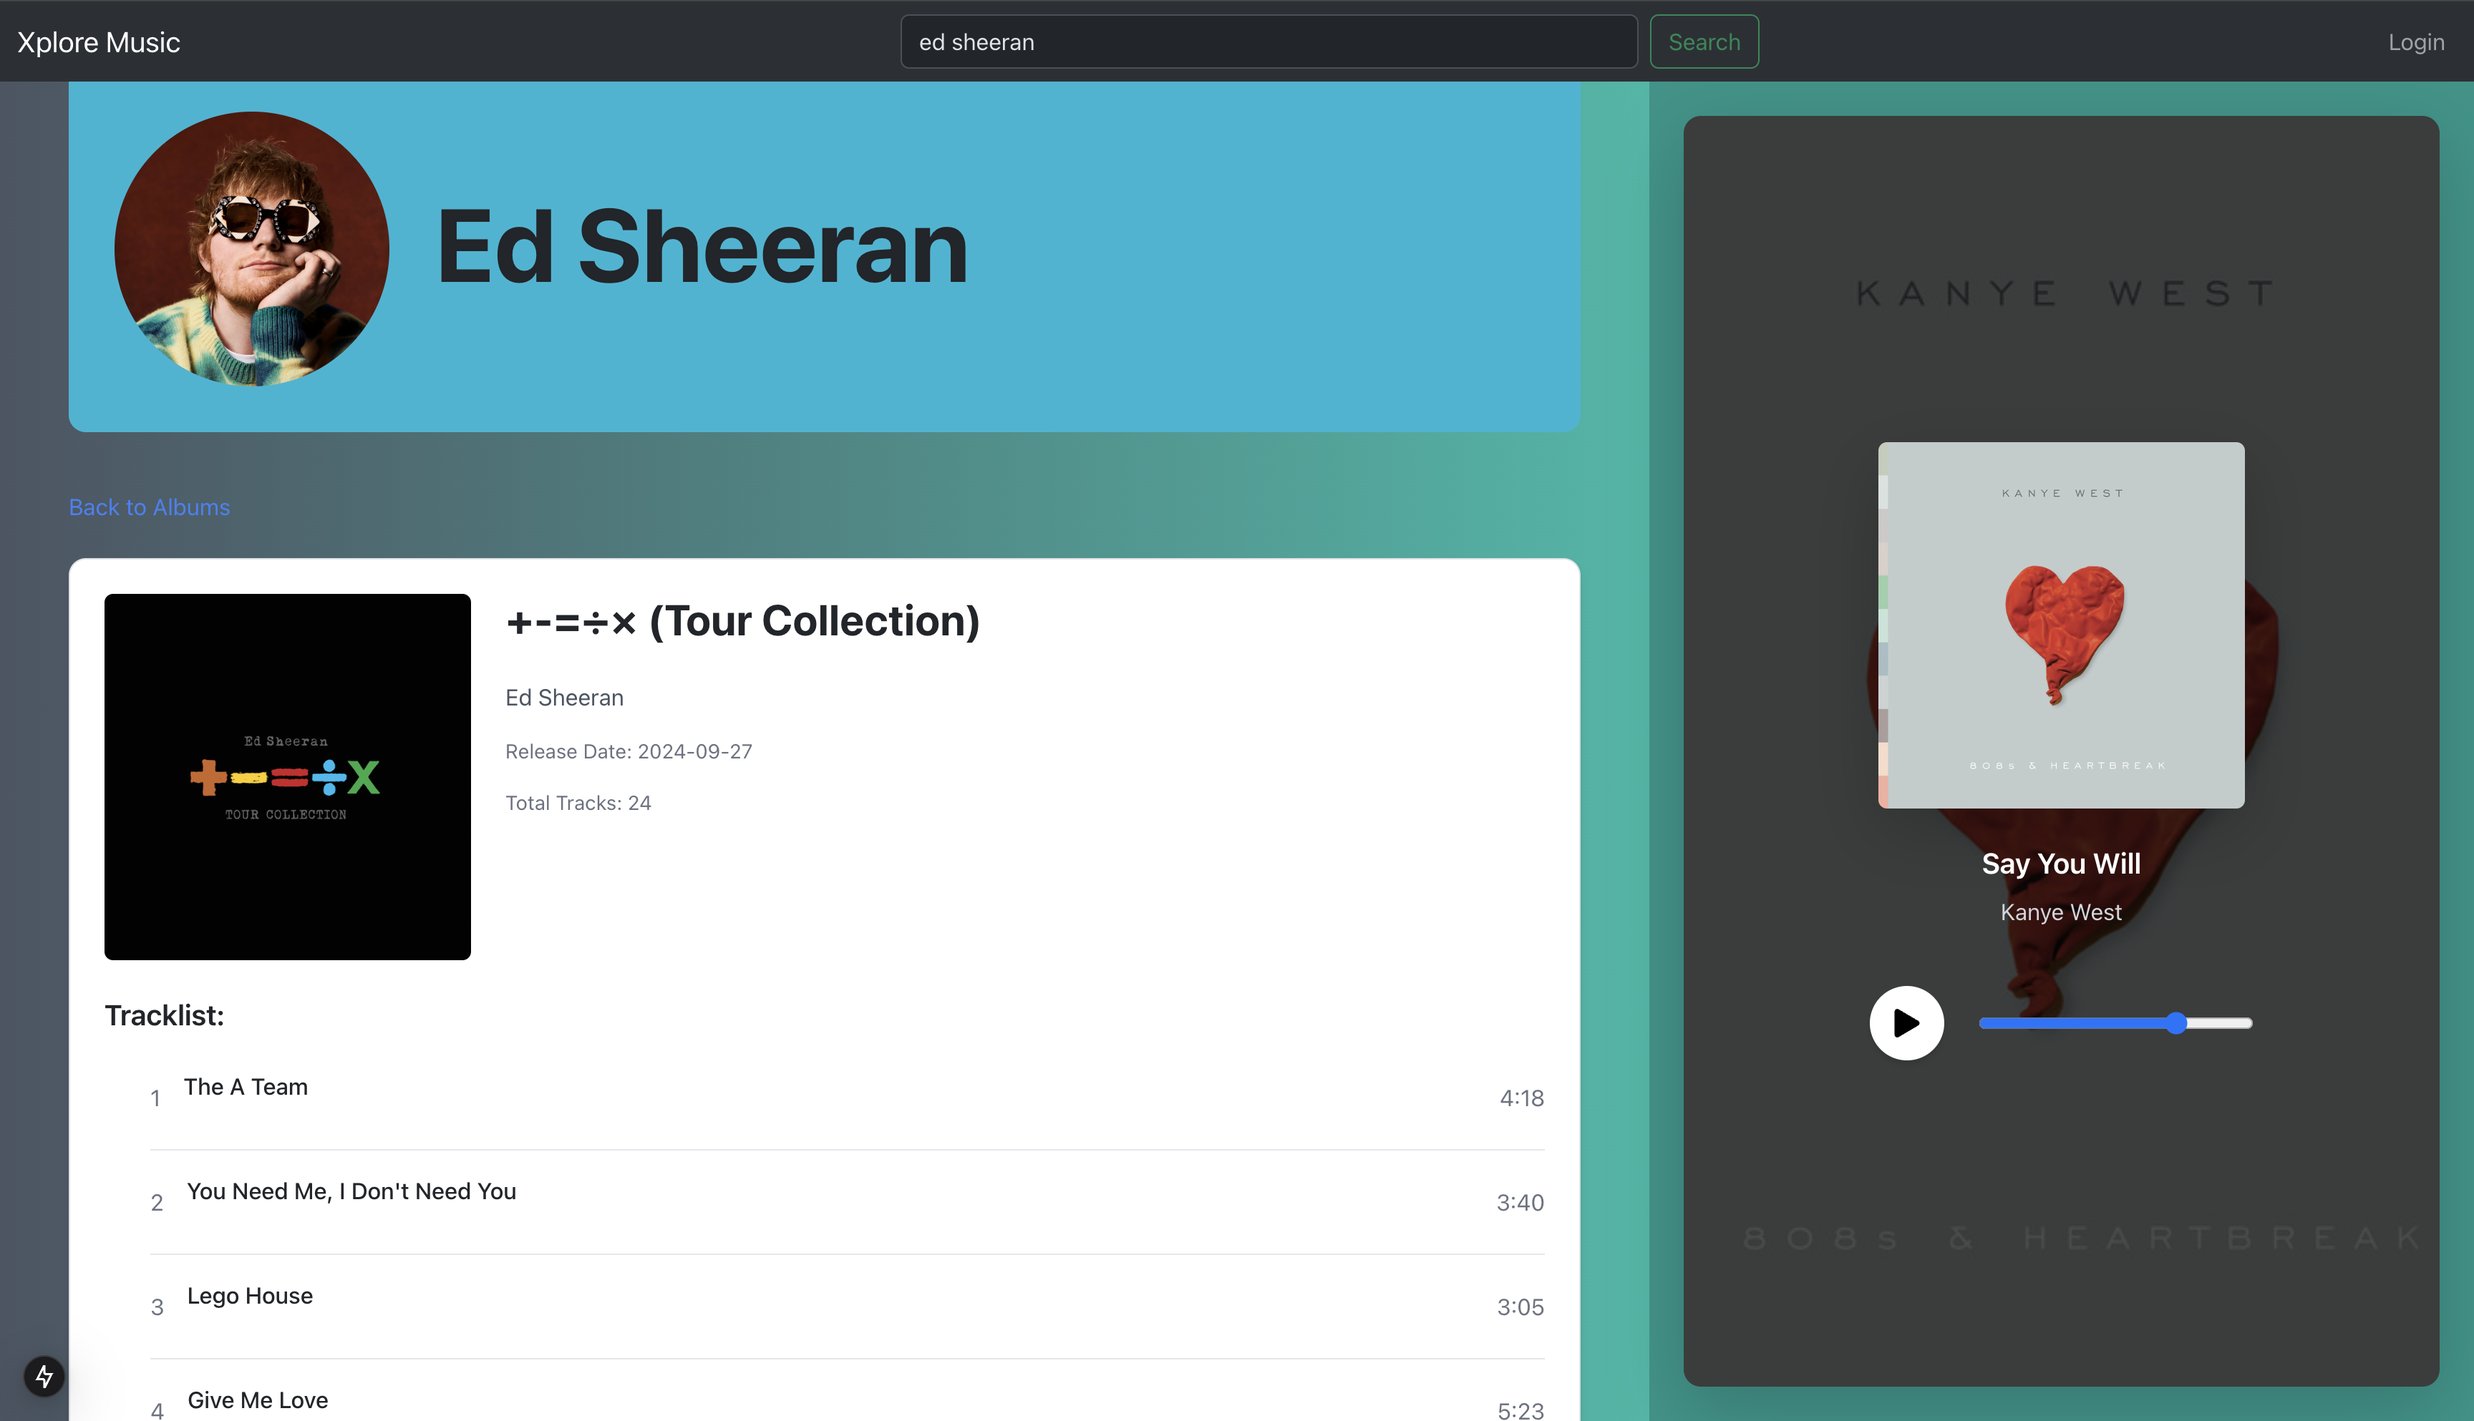
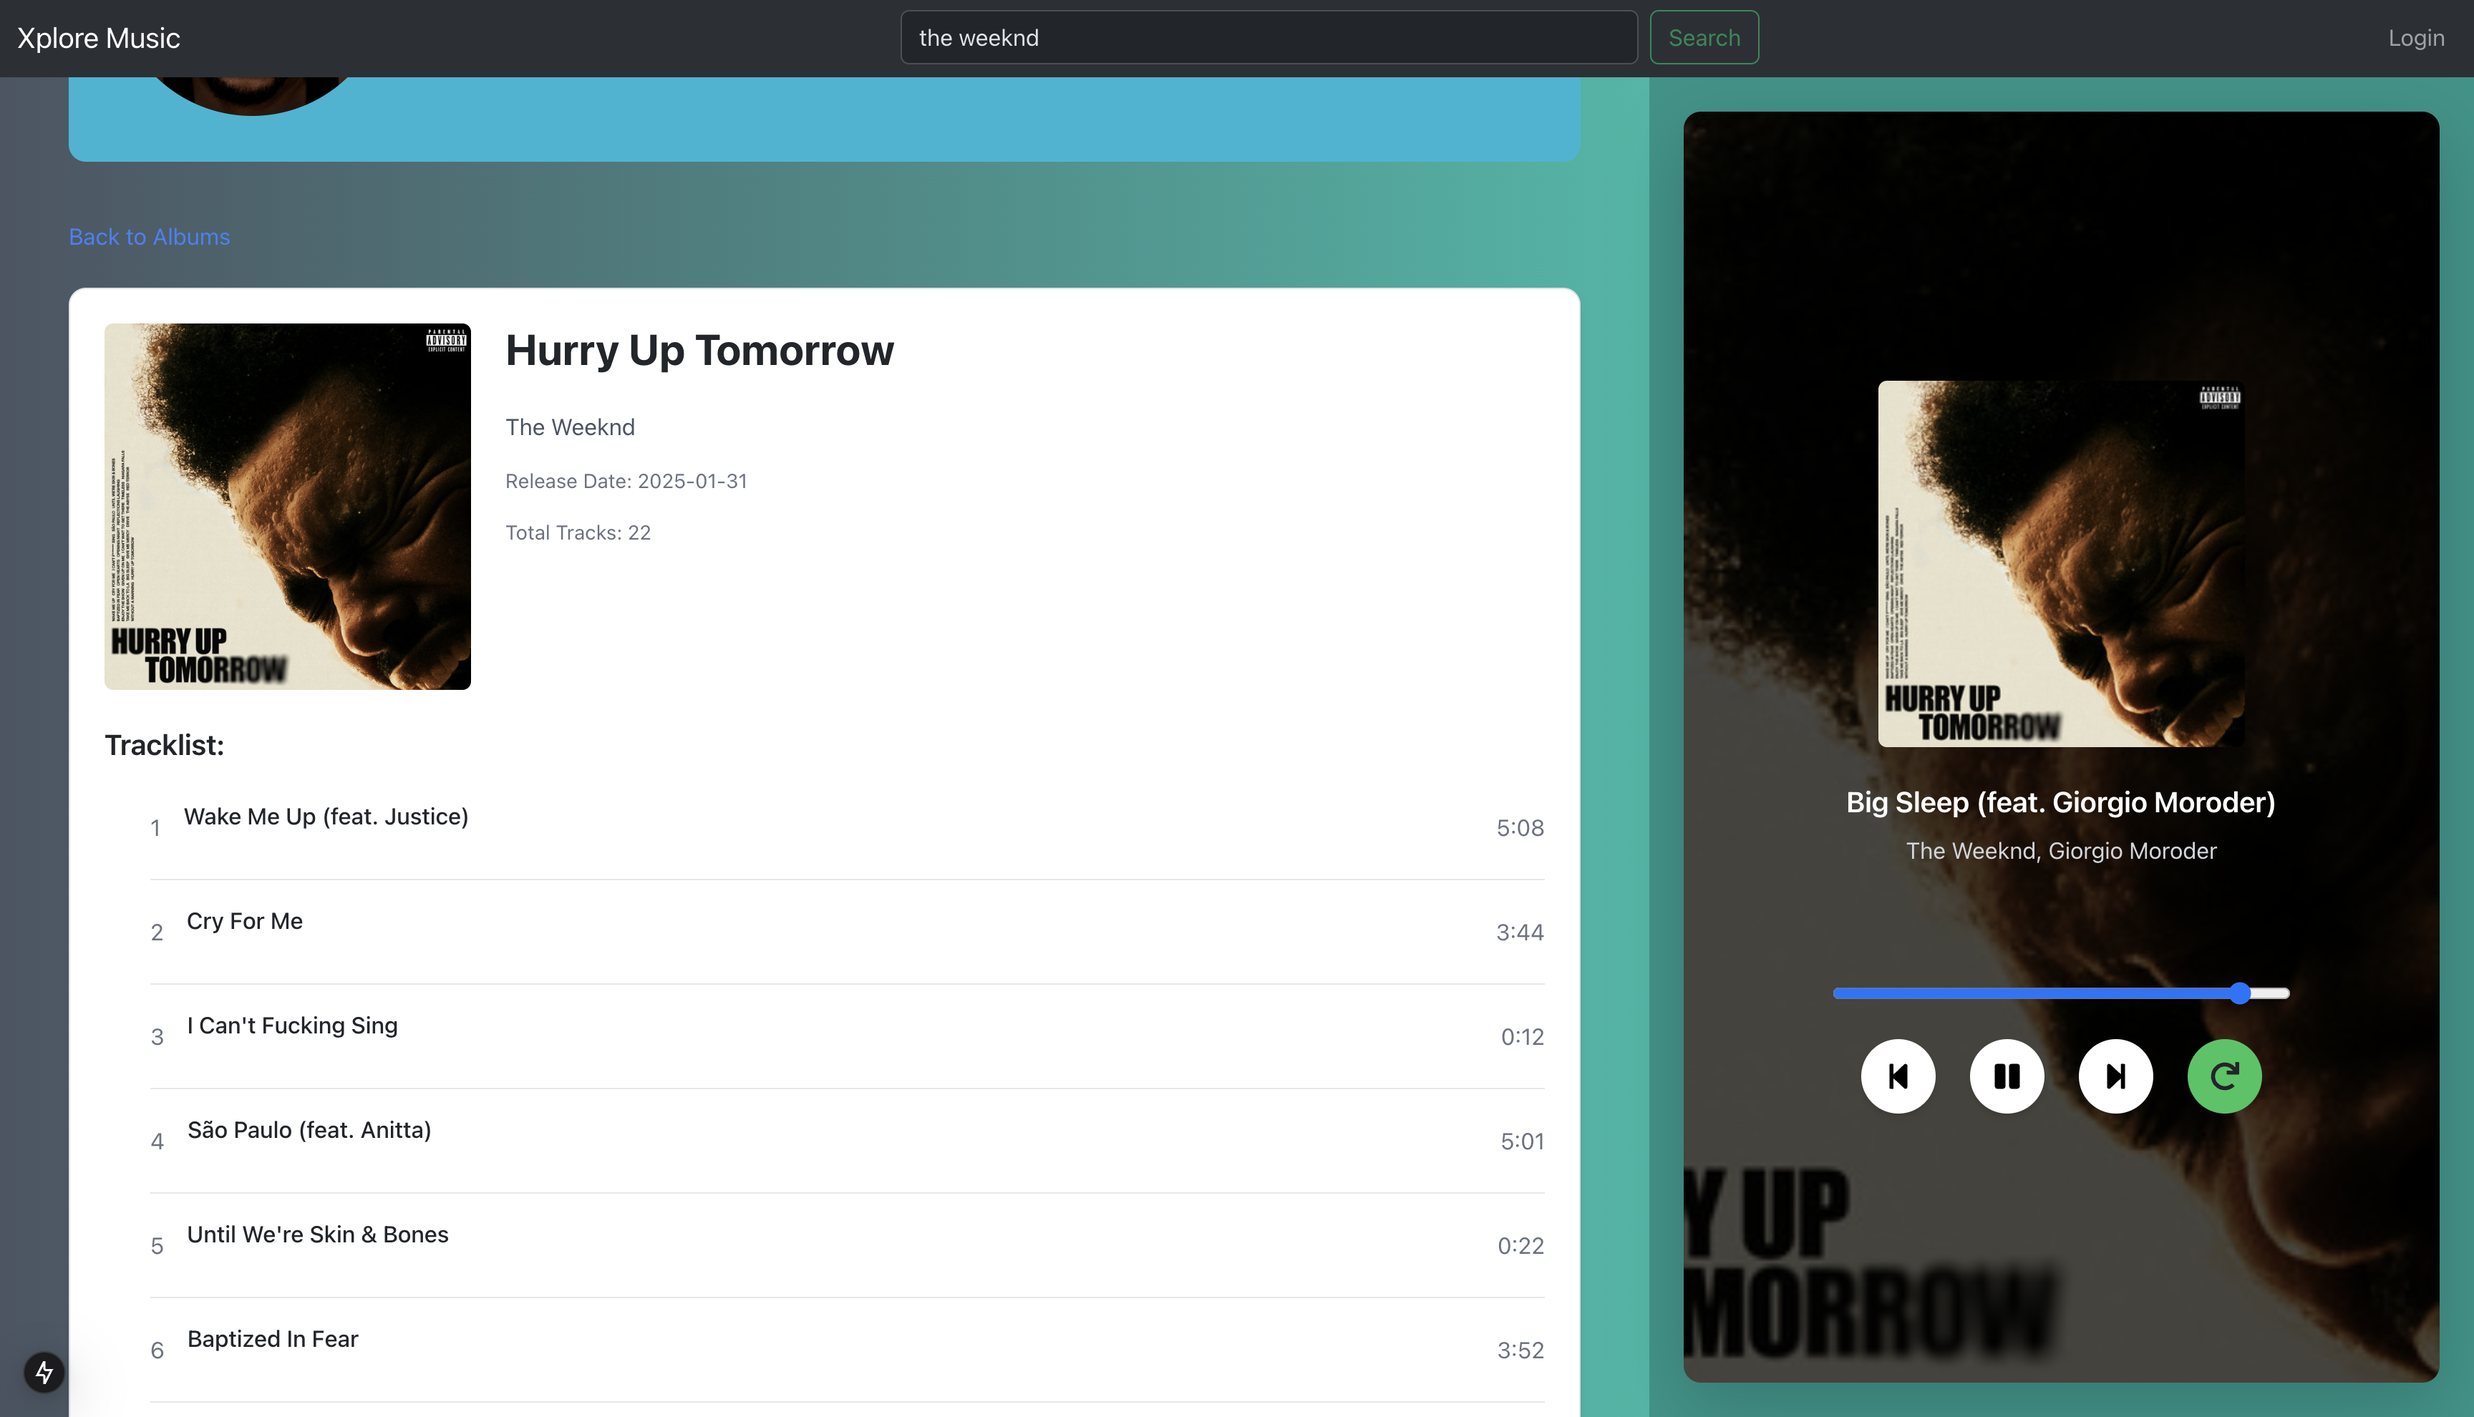
changes to music player ui, adding functionality to skip or go back to previous songs from an album.

diff --git a/client/src/app/musicPlayer.jsx b/client/src/app/musicPlayer.jsx
@@ -1,24 +1,26 @@
 'use client';
 import { useEffect, useState, useRef } from 'react';
 import axios from 'axios';
-import { FaPlay, FaPause } from 'react-icons/fa';
+import { FaPlay, FaPause, FaRedo, FaStepBackward, FaStepForward } from 'react-icons/fa';
 
-export default function MusicPlayer({ currentTrack, currentAlbumImg }) {
+export default function MusicPlayer({ currentTrack, currentAlbumImg, trackList, onTrackChange }) {
   const [videoId, setVideoId] = useState(null);
   const [audioUrl, setAudioUrl] = useState(null);
   const [isPlaying, setIsPlaying] = useState(false);
   const [progress, setProgress] = useState(0);
+  const [repeat, setRepeat] = useState(false);
   const audioRef = useRef(null);
+
+  
 
   const containerStyle = {
     backgroundImage: `url(${currentAlbumImg})`,
     backgroundSize: 'cover',
     backgroundPosition: 'center',
     backgroundBlendMode: 'darken',
-    backgroundColor: 'rgba(0,0,0,0.7)', // Dark overlay
+    backgroundColor: 'rgba(0,0,0,0.7)',
   };
 
-  // Fetch YouTube video ID when track changes
   useEffect(() => {
     if (currentTrack) {
       axios
@@ -30,7 +32,6 @@ export default function MusicPlayer({ currentTrack, currentAlbumImg }) {
     }
   }, [currentTrack]);
 
-  // Fetch direct audio URL when video ID changes
   useEffect(() => {
     if (videoId) {
       axios
@@ -40,7 +41,6 @@ export default function MusicPlayer({ currentTrack, currentAlbumImg }) {
     }
   }, [videoId]);
 
-  // Handle play/pause
   const togglePlayPause = () => {
     if (!audioRef.current) return;
     if (isPlaying) {
@@ -51,26 +51,55 @@ export default function MusicPlayer({ currentTrack, currentAlbumImg }) {
     setIsPlaying(!isPlaying);
   };
 
-  // Update progress bar as audio plays
   useEffect(() => {
     if (audioRef.current) {
       const updateProgress = () => {
         setProgress((audioRef.current.currentTime / audioRef.current.duration) * 100);
       };
 
+      const handleEnd = () => {
+        if (repeat) {
+          audioRef.current.currentTime = 0;
+          audioRef.current.play();
+        } else {
+          handleNext();
+        }
+      };
+
       audioRef.current.addEventListener('timeupdate', updateProgress);
+      audioRef.current.addEventListener('ended', handleEnd);
       return () => {
         audioRef.current.removeEventListener('timeupdate', updateProgress);
+        audioRef.current.removeEventListener('ended', handleEnd);
       };
     }
-  }, [audioUrl]);
+  }, [audioUrl, repeat]);
 
-  // Seek audio
   const handleSeek = (e) => {
     if (audioRef.current) {
       const seekTime = (e.target.value / 100) * audioRef.current.duration;
       audioRef.current.currentTime = seekTime;
       setProgress(e.target.value);
+    }
+  };
+
+  const handleRepeat = () => {
+    setRepeat(!repeat);
+  };
+
+  const handleNext = () => {
+    if (!trackList || trackList.length === 0) return;
+    const currentIndex = trackList.findIndex(track => track.id === currentTrack.id);
+    if (currentIndex < trackList.length - 1) {
+      onTrackChange(trackList[currentIndex + 1]);
+    }
+  };
+
+  const handlePrev = () => {
+    if (!trackList || trackList.length === 0) return;
+    const currentIndex = trackList.findIndex(track => track.id === currentTrack.id);
+    if (currentIndex > 0) {
+      onTrackChange(trackList[currentIndex - 1]);
     }
   };
 
@@ -81,36 +110,41 @@ export default function MusicPlayer({ currentTrack, currentAlbumImg }) {
     >
       {currentTrack ? (
         <>
-          {/* Album Cover */}
           <img
             src={currentAlbumImg}
             alt="Album Cover"
             className="w-64 h-64 object-cover rounded-md mb-4 shadow-lg"
           />
 
-          {/* Song Details */}
           <h2 className="text-xl font-semibold text-white">{currentTrack.name}</h2>
           <p className="text-gray-300">{currentTrack.artists?.map((artist) => artist.name).join(', ')}</p>
 
-          {/* Audio Player */}
           {audioUrl ? (
             <>
               <audio ref={audioRef} src={audioUrl} preload="auto" />
-
-              {/* Playback Controls */}
+              <input
+                type="range"
+                className="w-80 mt-16"
+                min="0"
+                max="100"
+                value={progress}
+                onChange={handleSeek}
+              />
               <div className="flex items-center gap-6 mt-4">
+                <button onClick={handlePrev} className="bg-white text-black p-3 rounded-full shadow-md">
+                  <FaStepBackward size={20} />
+                </button>
                 <button onClick={togglePlayPause} className="bg-white text-black p-3 rounded-full shadow-md">
                   {isPlaying ? <FaPause size={20} /> : <FaPlay size={20} />}
                 </button>
-                <input
-                  type="range"
-                  className="w-48"
-                  min="0"
-                  max="100"
-                  value={progress}
-                  onChange={handleSeek}
-                />
+                <button onClick={handleNext} className="bg-white text-black p-3 rounded-full shadow-md">
+                  <FaStepForward size={20} />
+                </button>
+                <button onClick={handleRepeat} className={`p-3 rounded-full shadow-md ${repeat ? 'bg-green-500' : 'bg-white text-black'}`}>
+                  <FaRedo size={20} />
+                </button>
               </div>
+              
             </>
           ) : (
             <p className="text-gray-400">Loading audio...</p>

diff --git a/client/src/app/page.jsx b/client/src/app/page.jsx
@@ -11,6 +11,9 @@ export default function Home() {
   const [currentAlbumImg, setCurrentAlbumimg] = useState('');
   const [showSearchResults, setShowSearchResults] = useState(false);
   const [currentTrack, setCurrentTrack] = useState(null);
+  const [currentTrackIndex, setCurrentTrackIndex] = useState(0);
+  const [trackList, setTrackList] = useState([]);
+
 
   const handleSearchResults = (results) => {
     setSearchResults(results);
@@ -21,35 +24,52 @@ export default function Home() {
     setShowSearchResults(false); // Switch back to popular albums
   };
 
-  const handleTrackSelection = (track) => {
-    setCurrentTrack(track); // Update the currently playing track
+  const handleTrackSelection = (track, tracks) => {
+    setTrackList(tracks); // Store the full tracklist
+    setCurrentTrack(track); // Set the currently playing track
+    const index = tracks.findIndex((t) => t.id === track.id);
+    setCurrentTrackIndex(index !== -1 ? index : 0);
   };
-  
+
+  const handleNextTrack = () => {
+    if (trackList.length === 0) return;
+    const nextIndex = (currentTrackIndex + 1) % trackList.length;
+    setCurrentTrack(trackList[nextIndex]);
+    setCurrentTrackIndex(nextIndex);
+  };
+
+  const handlePrevTrack = () => {
+    if (trackList.length === 0) return;
+    const prevIndex = (currentTrackIndex - 1 + trackList.length) % trackList.length;
+    setCurrentTrack(trackList[prevIndex]);
+    setCurrentTrackIndex(prevIndex);
+  };
+
   const handleAlbumImg = (image) => {
     setCurrentAlbumimg(image); 
   };
 
   return (
     <main className="h-screen flex flex-col">
-      {/* Navbar */}
       <NavBar onSearch={handleSearchResults} resetToPopular={resetToPopular} />
-
-      {/* Main Content */}
       <div className="flex flex-1 overflow-hidden">
-        {/* Left Section: Search Results or New Releases */}
         <div className="w-2/3 overflow-y-auto bg-gradient-to-r from-gray-600 to-teal-500 p-4">
           {showSearchResults ? (
-            <ShowAlbums results={searchResults} onTrackSelect={handleTrackSelection} setAlbumImg={setCurrentAlbumimg}/>
+            <ShowAlbums results={searchResults} onTrackSelect={handleTrackSelection} setAlbumImg={setCurrentAlbumimg} />
           ) : (
-            <RenderNew onTrackSelect={handleTrackSelection} setAlbumImg={setCurrentAlbumimg}/>
+            <RenderNew onTrackSelect={handleTrackSelection} setAlbumImg={setCurrentAlbumimg} />
           )}
         </div>
-
-        {/* Right Section: Music Player */}
         <div className="w-1/3 bg-teal-600 p-4">
-          <MusicPlayer currentTrack={currentTrack} currentAlbumImg={currentAlbumImg} />
+          <MusicPlayer 
+            currentTrack={currentTrack} 
+            currentAlbumImg={currentAlbumImg} 
+            onNextTrack={handleNextTrack} 
+            onPrevTrack={handlePrevTrack} 
+          />
         </div>
       </div>
     </main>
   );
+
 }

diff --git a/client/src/app/newAlbums.jsx b/client/src/app/newAlbums.jsx
@@ -37,7 +37,7 @@ export default function RenderNew({ onTrackSelect, setAlbumImg }) {
           setCurrentIndex((prevIndex) => (prevIndex + 1) % albums.length);
           return 0;
         }
-        return prev + 1;
+        return prev + 2;
       });
     }, 100);
 
@@ -53,7 +53,16 @@ export default function RenderNew({ onTrackSelect, setAlbumImg }) {
   return (
     <div>
       <h2 className = "mb-4">New Releases</h2>
-      <div className="relative w-full h-96 flex items-center justify-center bg-black text-white rounded-xl overflow-hidden">
+      <div className="relative w-full h-96 flex items-center justify-center bg-black text-white rounded-xl overflow-hidden"
+        onMouseOver={() => {
+
+          setIsManual(true);
+
+        }}
+        onMouseOut={() =>{
+          setIsManual(false);
+        }}
+      >
         <img src={album.images[0].url} alt={album.name} className="absolute w-1/2  object-cover opacity-35" />
         <div className="relative z-10 text-center p-6">
           <h2 className="text-4xl font-bold">{album.name}</h2>
@@ -62,17 +71,17 @@ export default function RenderNew({ onTrackSelect, setAlbumImg }) {
             className="mt-4 px-6 py-2 bg-white text-black font-bold rounded-full"
             onClick={() => {
               setSelectedAlbum(album);
-              setIsManual(true);
+              
             }}
           >
-            View Tracklist
+            Listen Now
           </button>
         </div>
         <button
           className="absolute left-4 top-1/2 transform -translate-y-1/2 bg-white text-black px-4 py-2 rounded-full"
           onClick={() => {
             setCurrentIndex((prevIndex) => (prevIndex - 1 + albums.length) % albums.length);
-            setIsManual(true);
+            
           }}
         >
           ←
@@ -81,7 +90,7 @@ export default function RenderNew({ onTrackSelect, setAlbumImg }) {
           className="absolute right-4 top-1/2 transform -translate-y-1/2 bg-white text-black px-4 py-2 rounded-full"
           onClick={() => {
             setCurrentIndex((prevIndex) => (prevIndex + 1) % albums.length);
-            setIsManual(true);
+
           }}
         >
           →

diff --git a/client/src/app/searchAlbums.jsx b/client/src/app/searchAlbums.jsx
@@ -5,8 +5,10 @@ import ShowTracks from "./tracklist";
 export default function ShowAlbums({ results, onTrackSelect, setAlbumImg }) {
   const [selectedAlbum, setSelectedAlbum] = useState(null);
 
+
   const artistName = results?.artist || 'Unknown Artist';
   const artistImage = results?.artist_img?.[0]?.url || null;
+
 
   return (
     <div className="p-6">
@@ -28,6 +30,8 @@ export default function ShowAlbums({ results, onTrackSelect, setAlbumImg }) {
 
       {/* Albums Section */}
       {selectedAlbum ? (
+
+        
         <ShowTracks
           selectedAlbum={selectedAlbum}
           onBack={() => setSelectedAlbum(null)}

diff --git a/server/routes/youtube.js b/server/routes/youtube.js
@@ -11,6 +11,8 @@ const YOUTUBE_SEARCH_URL = 'https://www.googleapis.com/youtube/v3/search';
 router.get('/search', async (req, res) => {
   const { query } = req.query;
 
+  console.log(query);
+
   if (!query) {
     return res.status(400).json({ error: 'Query parameter is required' });
   }
@@ -25,6 +27,8 @@ router.get('/search', async (req, res) => {
         maxResults: 1
       }
     });
+
+    console.log(response)
 
     const video = response.data.items[0];
     if (!video) {

diff --git a/client/src/app/tracklist.jsx b/client/src/app/tracklist.jsx
@@ -78,7 +78,7 @@ export default function ShowTracks({ selectedAlbum, onBack, onTrackSelect, setAl
                     key={track.id || index}
                     className="py-3 flex items-center justify-between cursor-pointer"
                     onClick={() => {
-                      onTrackSelect(track); 
+                      onTrackSelect(track, trackList); 
                       setAlbumImg(albumImg);
                     }}
                   >

diff --git a/README.md b/README.md
@@ -4,6 +4,6 @@ Frontend in react, javascript, tailwind css
 Backend in node.js, express.js
 
 Screenshots from UI
-![Album tracklist](images/albumTracklist.png)
-![Artist View](images/artistView.png)
 ![Home page](images/homePage.png)
+![Artist View](images/artistView.png)
+![Album tracklist](images/albumTracklist.png)
